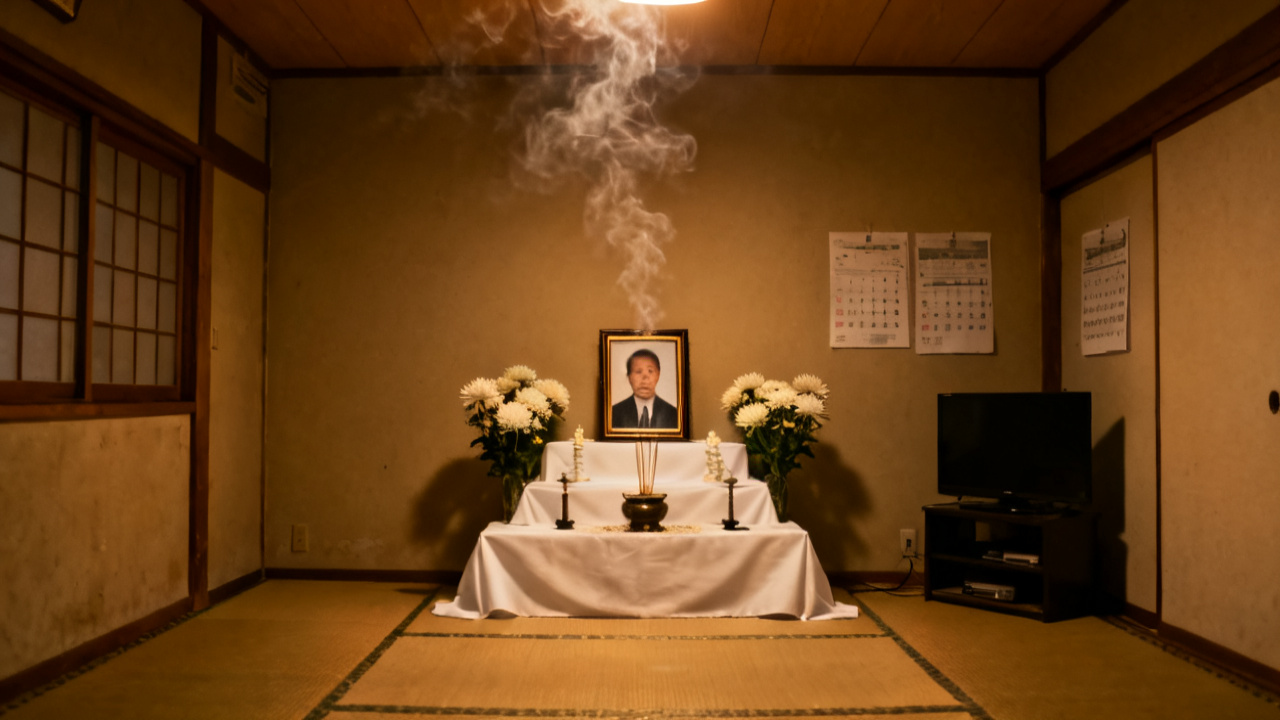
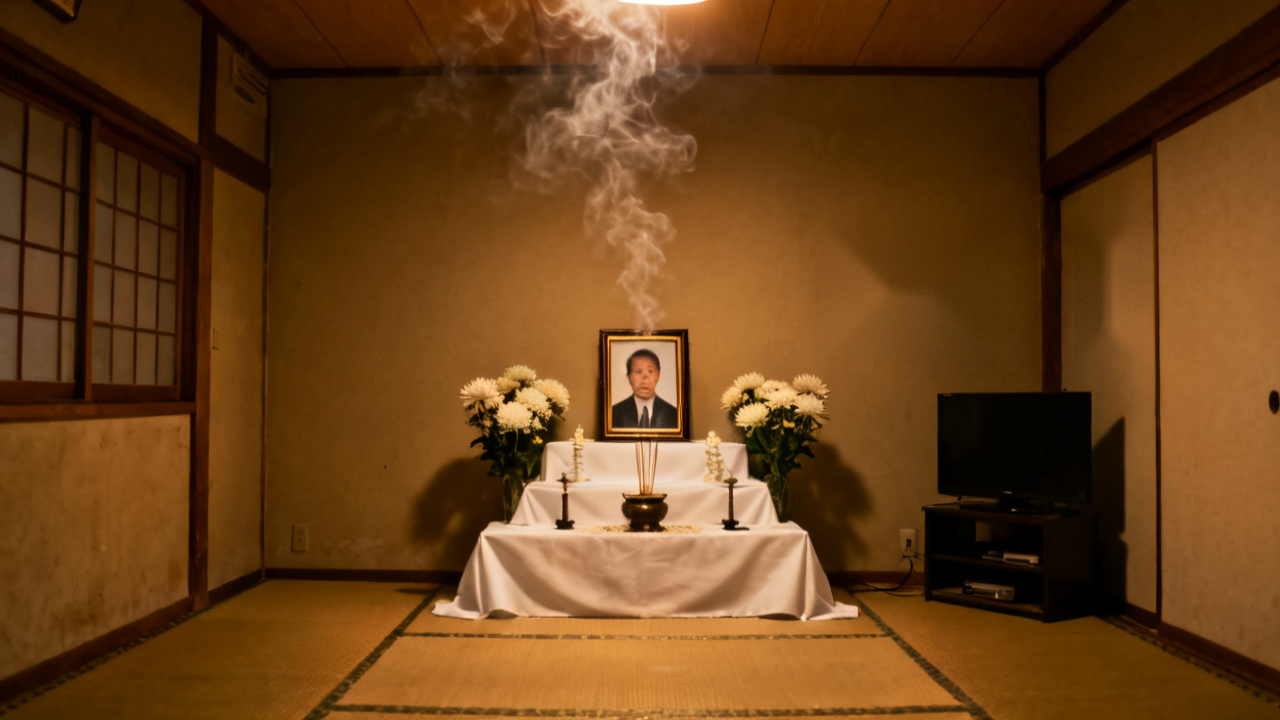
aihaha-ja PHASE 4 r4 검수: 16컷 확정(139/141), 실내 신발 금지·시계 반전·영정 합성, r5 스펙, 제21장 21
Claude-Session: https://claude.ai/code/session_012dfS4ETyT6kRCQca3NPWtx

Changed region(s): [[0.625, 0.3056, 0.7812, 0.5194], [0.8438, 0.3056, 0.9062, 0.5194]]

diff --git a/scripts/build_aihaha_keyframes.py b/scripts/build_aihaha_keyframes.py
@@ -137,7 +137,7 @@ EMO_OVERRIDE = {
              "she kneels before it with her hands on her knees; no laptop."),
     "S08p2": "GAZE: her eyes on the calendar on the table beside her, never at the lens.",
     "S11j": ("Exactly THREE people slumped on the sofa seen from directly above: the uncle (navy golf windbreaker), the aunt (wine-red blouse, pearls) and the "
-             "cousin (grey hoodie, black jacket)."),
+             "cousin (grey hoodie, black jacket). Indoors in a Japanese home: all three in socks, NO shoes on their feet (r4: shoes on tatami)."),
     "S01f": "PEOPLE LOCKED: exactly two people — the mother's blurred white-haired head and lavender shoulder at the near left edge, her thin hand pointing at the window; Yukiko beyond by the window.",
 }
 FRAMING_FIRST = {
@@ -193,6 +193,7 @@ SWEAT_EDIT = ("Edit image 1. Keep the man, his pose, expression, clothes, the ro
               "matte skin elsewhere, no gel drops, no shiny face. Same framing, same 16:9 size, photorealistic, no text.")
 EDIT = {
     "S10m": ("assets/portraits/aihaha-kf-r2/S10m-1.png", ["assets/portraits/aihaha-ref/sweat-standard-tsuyoshi.png"], SWEAT_EDIT),
+    "S09g": ("assets/portraits/aihaha-kf-r4/S09g-2.png", ["assets/portraits/aihaha-ref/sweat-standard-tsuyoshi.png"], SWEAT_EDIT),
     "S10a": ("assets/portraits/aihaha-kf-a/S10a-1.png", ["assets/portraits/aihaha-ref/sweat-standard-tsuyoshi.png"], SWEAT_EDIT),
     "H0a": ("assets/portraits/aihaha-kf-r1/H0a-1.png", ["assets/portraits/aihaha-ref/cells/loc-window-view-finished-day.png"],
             "Edit image 1. Keep the elderly woman exactly unchanged — her face, smile, white hair, lavender cardigan and cream blouse — and keep the room, the beige "

diff --git a/CLAUDE.md b/CLAUDE.md
@@ -639,6 +639,7 @@ deformed eyes, extra fingers.
 18. **실행은 세션이 직접 건다 — 토큰 판정은 `gh api user`(2026-11-04 실증)**: `gh auth status`는 「The token in GH_TOKEN is invalid」라고 표시해도 `gh api user --jq .login`(kyg1387-sudo)·`gh run list`·`gh workflow run`이 정상 동작한다. 앞서 실행이 막힌 것은 토큰이 아니라 세션 권한 확인이었다. 순서: ① `git status -sb` ahead 0(스펙이 원격에 있어야 함) ② `safe_to_run.py` 안전 ③ `gh workflow run generate-video.yml --ref <브랜치> -f portraits_spec=<스펙 이름>`(칸에는 경로·`.json` 없이 이름만 — #1060 실패) ④ `gh run view <id>`로 완료 확인 → fetch·병합. 권한 확인에 막히면 우회하지 않고 고니감독님께 Run workflow를 요청한다.
 19. **r2 결과(2026-11-04, run 41823655466 36장)**: ① **의상 참조 이미지에 이미 뒷모습 칸이 있었다** — 뒷모습 셀 편집(유키코 상복)은 2장 모두 베이지 니트 그대로였지만, 의상 참조(`yukiko-mourning.png` 등)의 세 번째 칸을 잘라 쓰면 무료로 정확하다(`cells/<인물>-<의상>-back.png`; 배경이 야외인 칸은 흰 배경 편집본으로 대체). ② **장소 참조를 빼고 글로만 배경을 지정하면 방이 바뀐다**(NO_LOC 거실 5컷 전부 일반 커튼·브라운관 TV — 다른 컷은 레이스 커튼·평면 TV) → 장소 사진의 **벽 부분만 잘라 「배경 판」으로 참조**(`cells/loc-living-cold-bg.png`, 「구도 안내가 아님」 문장). ③ 경찰 조명 문장 수정 후 줄무늬 0(S11d·S11f·S11g 합격). ④ 땀 지시를 넣어도 립싱크 키프레임에 땀이 안 보임(S10m) → 합격 컷에 땀만 더하는 부분 편집(`SWEAT_EDIT`). ⑤ 흐린 앞 인물 안경 인페인트는 사각형 마스크면 얼룩이 남는다 → 안경테만 마스크하고 줄마다 왼쪽(피부)·오른쪽(벽) 색으로 채운 뒤 흐림+그레인.
 20. **b1·b2 Kill Gate(2026-11-04, 79장 → 합격 61·재생성 18)**: ① **의상 시트(3칸)·뒷모습 셀을 참조하면 결과가 분할 화면이 된다**(S02e·S04m: 흰 배경 인물 칸이 따로 붙음) → 참조 설명에 「생김새만, 별도 칸·삽입 금지, 한 장의 연속된 장면」을 넣고, 단독 반응 컷은 뒷모습 셀을 뺀다(`SOLO_FIX`). ② **땀 기준 컷·정면 셀만 참조하면 그 사진의 옷이 따라온다**(골프 점퍼 장면의 叔父 얼굴 3컷이 검은 정장) → 생성기가 장면 번호로 의상 참조를 자동 추가(`WARD_ADD`)하고 땀·눈물 기준 컷 설명에 「옷은 따르지 않음」. ③ 화면 가운데 소품(술병 라벨)의 가짜 한자는 흐림·인페인트 모두 얼룩 → 재생성(제11장 10 재확인). ④ 인원 누락(친척 3명 중 1명, 소파 가족 3명 중 1명) → 「남자 둘·여자 하나」처럼 성별·의상까지 센다. ⑤ 창이 증거인 빈 창 컷(S13h)에 녹색 그물이 되살아남 → 무인 창 컷은 승인 장소 셀을 그대로 쓴다(무료). ⑥ 좌우 기둥 띠(세로 구도 출력) 3컷은 `kf_letterbox_fix`로 크롭.
+21. **r4 결과(2026-11-04, run 41830402639 36장 → 16컷 확정)**: ① **영정 액자 안에 엉뚱한 남자 사진**이 그려졌다(S02a — 「합성 예정 무지」 지시 무시) → 액자 안은 PHASE 4에서 어머니 사진으로 덮는다(합성 필수 목록). 벽의 가짜 숫자 달력은 같은 초점면이라 흐림 대신 인페인트(무료). ② **실내에서 신발**(소파 가족 부감 S11j 2장 모두) — 일본 가정 고증 위반 → 「socks, NO shoes」. ③ 시계 오른손 2회 반복(S08i) → 글자 없는 인서트는 좌우 반전으로 왼손목 시계를 맞춘다(무료). ④ SOLO_FIX로 뒷모습 셀을 빼도 PHASE 3 문장에 어깨 너머 구도가 남아 있으면 앞 인물이 계속 나온다(S02e·S04m·S08c) — 대화 상대가 맞는 인물이면 합격 처리(어깨 너머 연출로 자연스러움).
 
 ---
 

diff --git a/docs/제작규격-보강-aihaha실증.md b/docs/제작규격-보강-aihaha실증.md
@@ -66,3 +66,8 @@
 ## b1·b2 (2026-11-04, run 41826233294·41827769337)
 
 - **b1·b2 Kill Gate(2026-11-04, 79장 → 합격 61·재생성 18)**: ① **의상 시트(3칸)·뒷모습 셀을 참조하면 결과가 분할 화면이 된다**(S02e·S04m: 흰 배경 인물 칸이 따로 붙음) → 참조 설명에 「생김새만, 별도 칸·삽입 금지, 한 장의 연속된 장면」을 넣고, 단독 반응 컷은 뒷모습 셀을 뺀다(`SOLO_FIX`). ② **땀 기준 컷·정면 셀만 참조하면 그 사진의 옷이 따라온다**(골프 점퍼 장면의 叔父 얼굴 3컷이 검은 정장) → 생성기가 장면 번호로 의상 참조를 자동 추가(`WARD_ADD`)하고 땀·눈물 기준 컷 설명에 「옷은 따르지 않음」. ③ 화면 가운데 소품(술병 라벨)의 가짜 한자는 흐림·인페인트 모두 얼룩 → 재생성(제11장 10 재확인). ④ 인원 누락(친척 3명 중 1명, 소파 가족 3명 중 1명) → 「남자 둘·여자 하나」처럼 성별·의상까지 센다. ⑤ 창이 증거인 빈 창 컷(S13h)에 녹색 그물이 되살아남 → 무인 창 컷은 승인 장소 셀을 그대로 쓴다(무료). ⑥ 좌우 기둥 띠(세로 구도 출력) 3컷은 `kf_letterbox_fix`로 크롭.
+
+## r4 (2026-11-04)
+
+- **r4 결과(2026-11-04, run 41830402639 36장 → 16컷 확정)**: ① **영정 액자 안에 엉뚱한 남자 사진**이 그려졌다(S02a — 「합성 예정 무지」 지시 무시) → 액자 안은 PHASE 4에서 어머니 사진으로 덮는다(합성 필수 목록). 벽의 가짜 숫자 달력은 같은 초점면이라 흐림 대신 인페인트(무료). ② **실내에서 신발**(소파 가족 부감 S11j 2장 모두) — 일본 가정 고증 위반 → 「socks, NO shoes」. ③ 시계 오른손 2회 반복(S08i) → 글자 없는 인서트는 좌우 반전으로 왼손목 시계를 맞춘다(무료). ④ SOLO_FIX로 뒷모습 셀을 빼도 PHASE 3 문장에 어깨 너머 구도가 남아 있으면 앞 인물이 계속 나온다(S02e·S04m·S08c) — 대화 상대가 맞는 인물이면 합격 처리(어깨 너머 연출로 자연스러움).
+- 남은 재생성 r5: S11j(양말), S09g(땀 부분 편집).

diff --git a/docs/시리즈-제작비용.md b/docs/시리즈-제작비용.md
@@ -107,7 +107,8 @@ EP3-JA 실측: 완료 전 잔액 10.51 → 중간 충전 → 완료 후 30.18(20
 | PHASE 4 재생성 `aihaha-kf-r2` | PHASE 4 | 14컷×2 + 뒷모습 셀 4종×2 = 36장 | 약 1.44달러 | 약 1.44달러 | 재생성분. 합격 8컷 |
 | PHASE 4 재생성 `aihaha-kf-r3` | PHASE 4 | 16컷×2 = 32장(땀 편집 2 포함) | 약 1.28달러 | 약 1.28달러 | 16컷 전부 확정 |
 | PHASE 4 키프레임 `aihaha-kf-b1`·`b2` | PHASE 4 | 34 + 45 = 79장 | 약 3.16달러 | 약 3.16달러 | 합격 61·재생성 18 |
-| PHASE 4 재생성 `aihaha-kf-r4` | PHASE 4 | 18컷×2 = 36장 | 약 1.44달러 | — | 재생성분 |
+| PHASE 4 재생성 `aihaha-kf-r4` | PHASE 4 | 18컷×2 = 36장 | 약 1.44달러 | 약 1.44달러 | 16컷 확정 |
+| PHASE 4 재생성 `aihaha-kf-r5` | PHASE 4 | 2컷×2 = 4장 | 약 0.16달러 | — | S11j·S09g |
 | (기준) fal 잔액 | 2026-11-03 2차 시트 실행 전 | — | — | **104.17달러**(대시보드, 일평균 17.57달러 — 다른 작품 포함) | 남은 추정 약 84달러 → 여유 약 20달러, PHASE 5 전 충전 권장 |
 | 키프레임·시트·i2v·립싱크(fal) | PHASE 2~5 | 『引きこもり』 168컷 기준 | 약 73달러 + 키프레임 재생성 ×1.35 여유 → **약 80달러** | — | 직전 작품 실측 72.5달러(6절) |
 | 아웃트로 진행자(Typecast Yui Sato + 립싱크) | 아웃트로 | 5줄·3룩 | 약 3.5달러 | — | 제18장 9 ⑧ |
